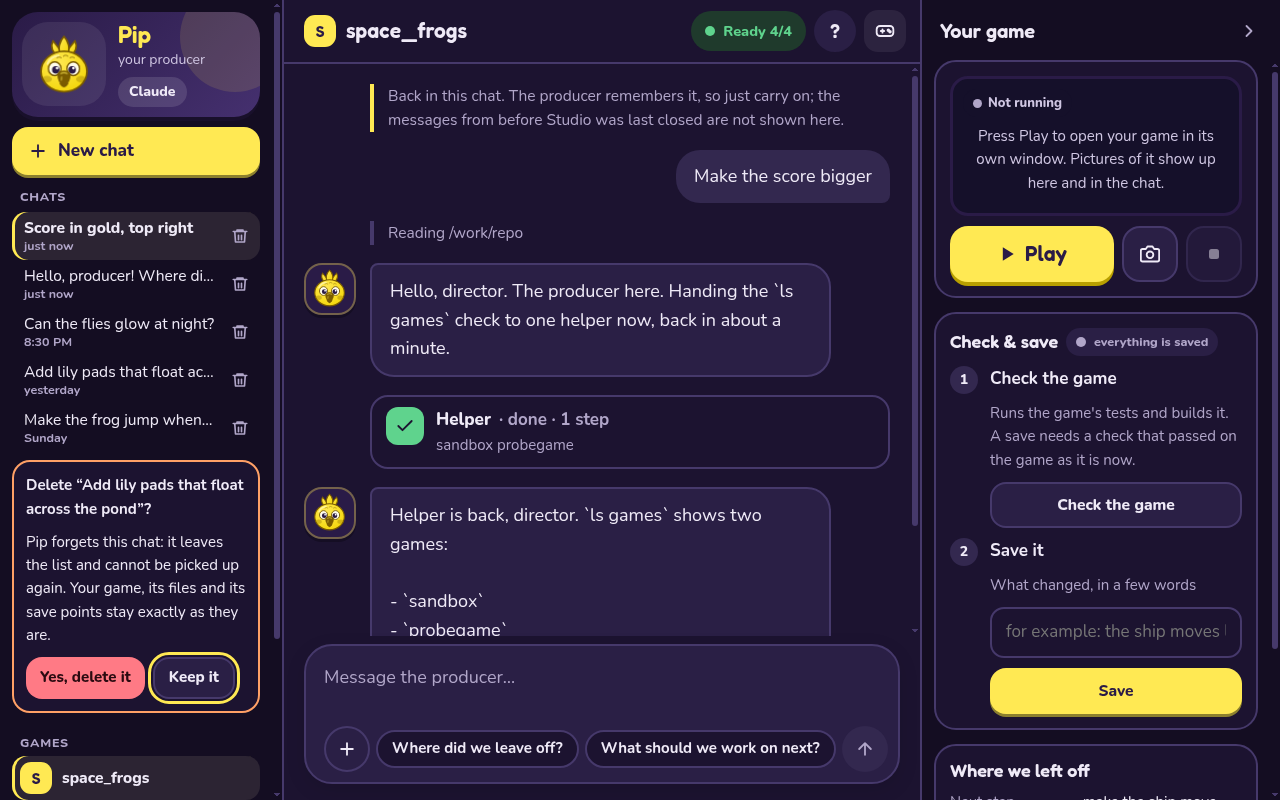
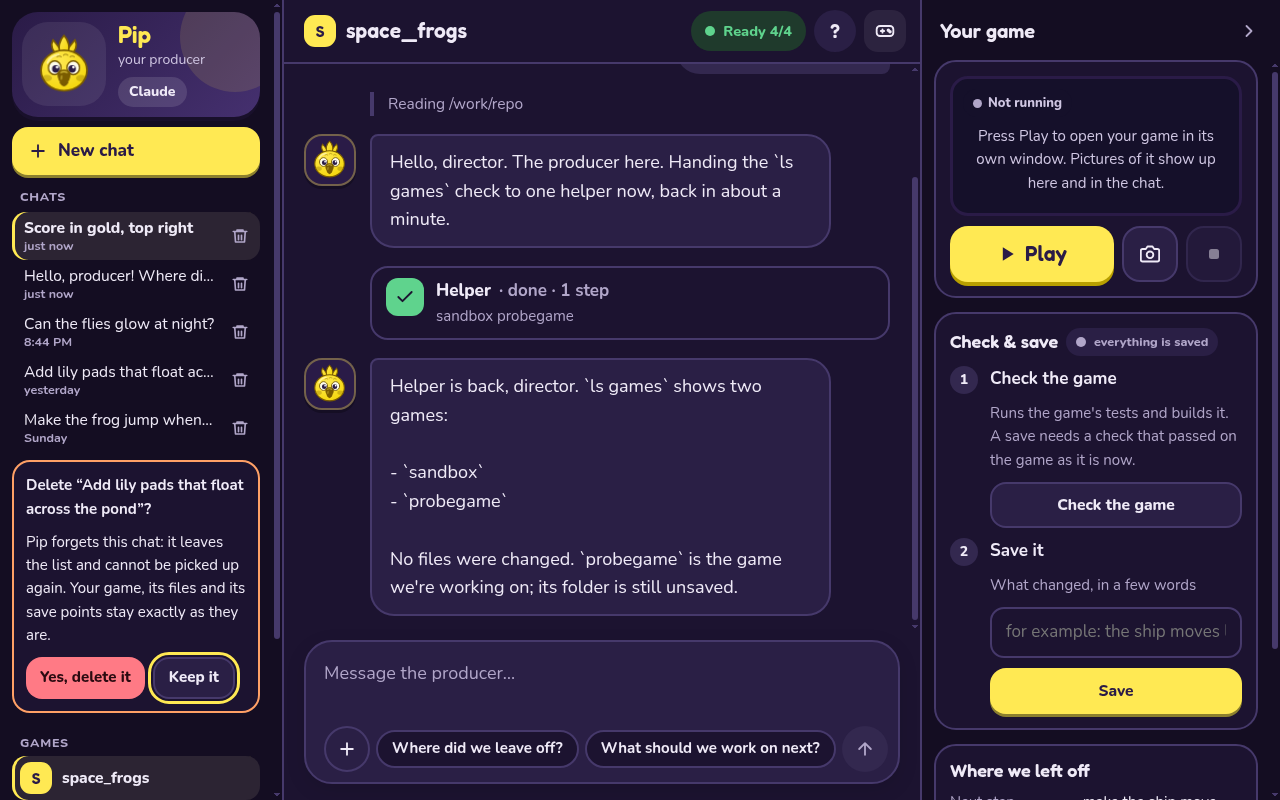
fix(studio): plain note when an old chat reopens
Say that a chat's earlier messages are not kept on this computer and
the conversation continues from where it left off, in the page note and
in docs/studio.md.

diff --git a/docs/studio.md b/docs/studio.md
@@ -212,9 +212,9 @@ producer, the one you used last at the top. Each shows the start of the first me
 it and when you last used it (for example "5 min ago", "yesterday" or "12 Oct").
 
 - **Pick one** to go back to it. The producer carries on that same conversation, so just keep
-  talking. Studio keeps the messages on the page only while it is open: after you close and start
-  Studio again, an old chat opens with a note instead of its earlier messages, and the producer
-  still remembers them.
+  talking. Studio shows a chat's messages only while it stays open: the earlier messages are not
+  kept on this computer. After you close and start Studio again, an old chat opens with a note
+  saying so, and the conversation continues from where it left off.
 - **New chat** starts a fresh one. Your earlier chats stay in the list. Until you send its first
   message, the new chat is the "New chat" line at the top of the list.
 - **Delete** (the bin next to a chat) asks first. Saying yes takes the chat off the list for good,
